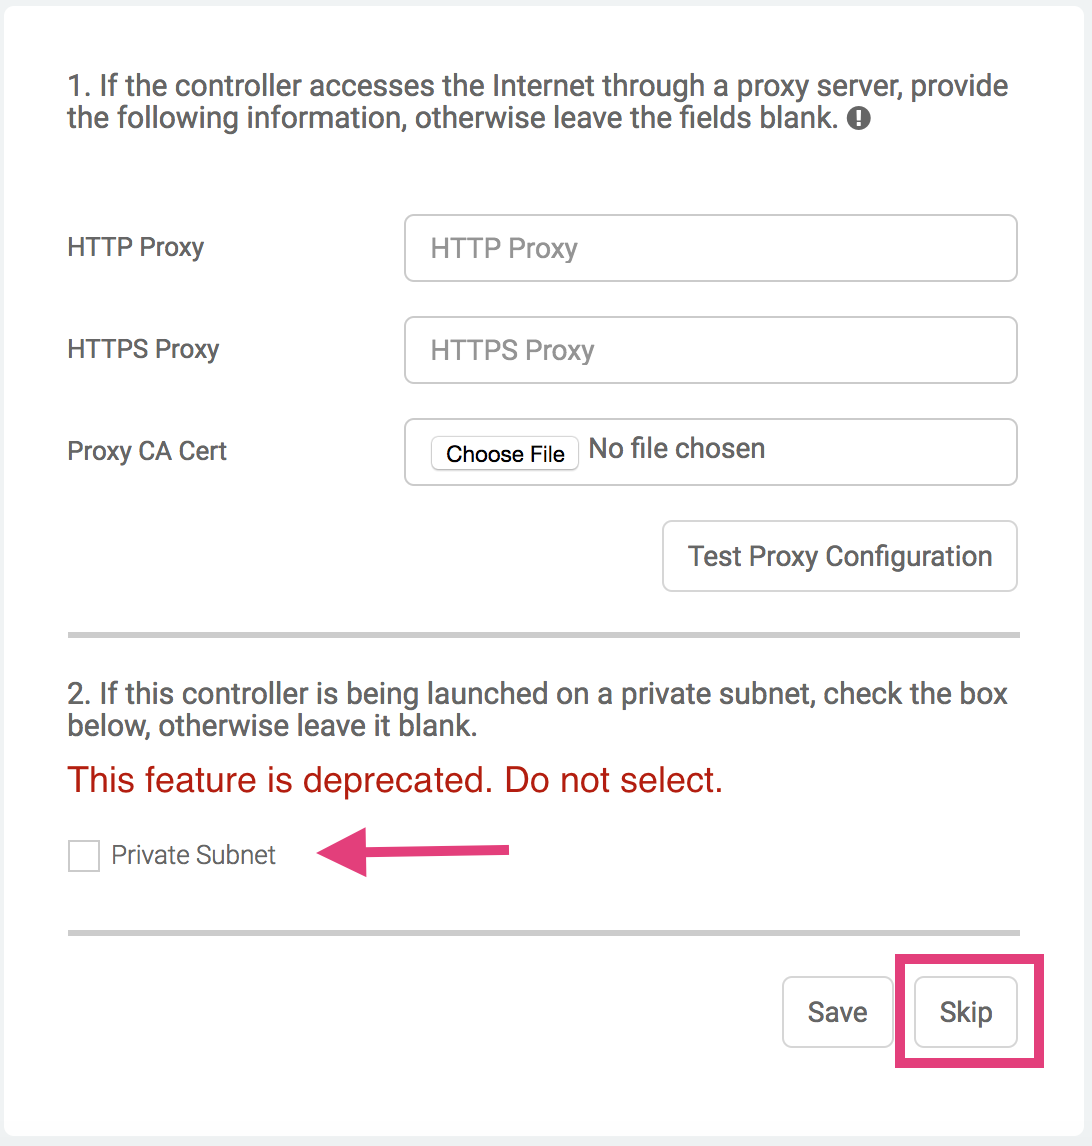
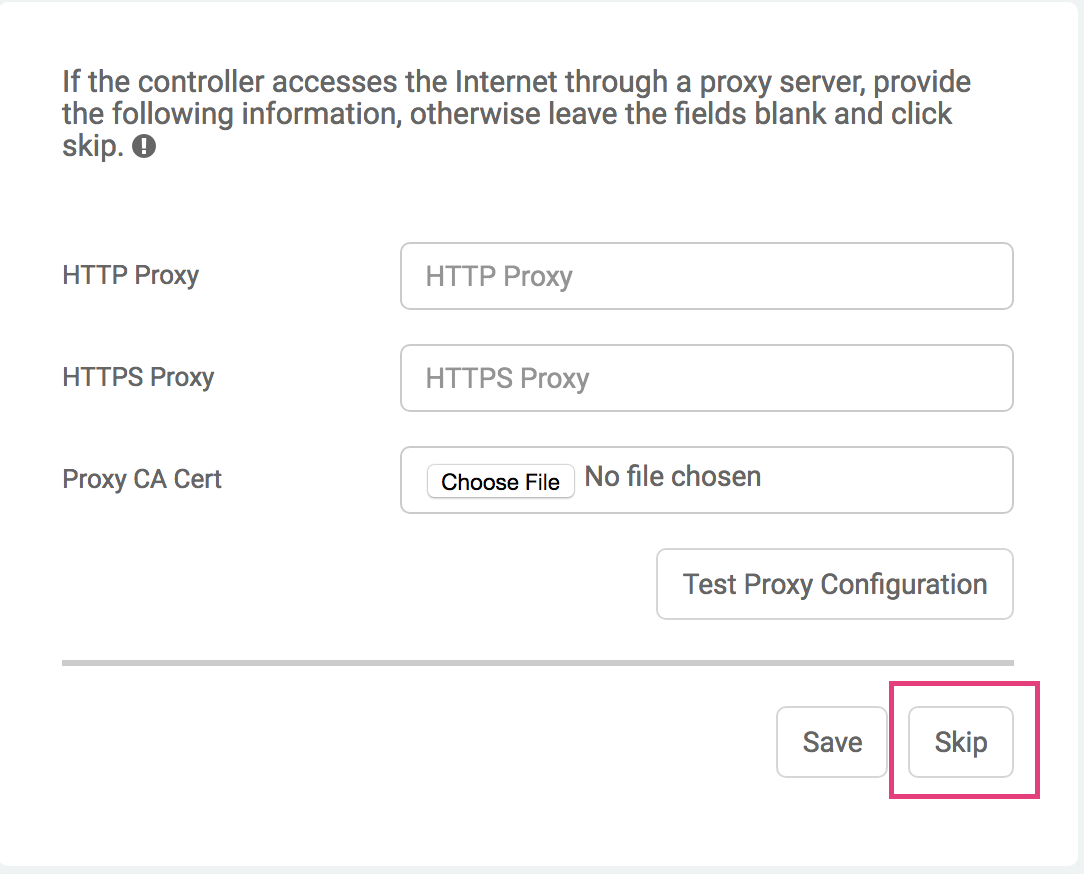
update images

diff --git a/StartUpGuides/aviatrix-china-controller-startup-guide.rst b/StartUpGuides/aviatrix-china-controller-startup-guide.rst
@@ -14,8 +14,6 @@ Click a link below to learn your use case or read an `Aviatrix Overview. <http:/
   
 `Remote User VPN <http://docs.aviatrix.com/HowTos/openvpn_features.html>`_
 
-`Next Gen Transit Network <http://docs.aviatrix.com/HowTos/transitvpc_faq.html>`_
-
 `VPC Egress Security <http://docs.aviatrix.com/HowTos/FQDN_Whitelists_Ref_Design.html>`_
 
 `Site to Cloud VPN <http://docs.aviatrix.com/HowTos/site2cloud_faq.html>`_
@@ -30,154 +28,76 @@ The following guide applies to running the Controller in your own environment in
 
 The first thing you need to do is to launch the Controller instance. 
 
-We'll walk you through 4 steps. By the end, you'll be 
+We'll walk you through 2 steps. By the end, you'll be 
 ready for your first use case. 
 
-  |4-steps|
-
-You can also `watch a video <https://youtu.be/ltL_dWjjV0w>`_ for this startup guide. 
 
 Before you start, you need to have an `AWS account <https://aws.amazon.com/>`__.   Create a new account or login to an existing IAM account.
 
 .. Important::
 
-    - We require this AWS IAM account to have permissions to create AWS IAM roles, IAM policies and launch EC2 instances. 
+    - IAM role is not supported in the current release in China. 
+    - Ningxia region is not supported in the current release in China. 
+    - We require this AWS IAM account to have permissions to create AWS access key, secret id, policies and launch EC2 instances. 
     - The Controller instance must be launched on a public subnet in a VPC. 
-    - All AMIs should be launched by CloudFormation template provided by Aviatrix, as described in the next section.
 ..
 
 
-Step 1. Subscribe to an Aviatrix AMI 
+Step 1. Locate the Controller AMI from AWS Community
 ^^^^^^^^^^^^^^^^^^^^^^^^^^^^^^^^^^^^^^^^^^^^^^^^^^^^^^^^^^
 
-1.1 Select an AMI  
-----------------------------------------------------------------
+Login to AWS China, select Beijing region, click launch EC2 instance from AWS Community AMIs, search for aviatrix, as shown below. The Aviatrix Controller AMI name is Aviatrix_china_controller_051518_BYOL. 
 
-Select the right AMI that meets your use case and subscription preference. Click an AMI link will take you to the AWS Marketplace to complete step 1.2 only. 
-(Open a new tab on the selected AMI so you can follow along with this guide.)
-
-- **Metered AMI** `Aviatrix Secure Networking Platform PAYG - Metered AMI <https://aws.amazon.com/marketplace/pp/B079T2HGWG?ref=_ptnr_docs_link_startup_metered>`_ is a pay as you go cloud consumption model for all use cases, 2 free tunnels included: 
-   - Next-Generation Transit VPC Network  
-   - VPC Egress Security  
-   - Remote User VPN (OpenVPN®)  
-   - Multicloud Peering 
-   - Encrypted Peering 
-   - Site to Cloud IPSEC VPN 
-   - FREE - EC2 FlightPath Troubleshooting Tool
-   - FREE – Two Tunnels (Free Forever)
-   
-- **Utility AMI** `Aviatrix Secure Networking Platform - Custom AMI <https://aws.amazon.com/marketplace/pp/B0155GB0MA?ref=_ptnr_web_cta_docs_custom-ami>`_ includes a 14-day free trial and is a utility model for use cases that build IPSEC and SSL VPN: 
-   - Next-Generation Transit VPC Network  
-   - Remote User VPN (OpenVPN®)  
-   - Multicloud Peering 
-   - Encrypted Peering 
-   - Site to Cloud IPSEC VPN 
-
-- **Utility User VPN AMI** We offer a range of `OpenVPN® User Access <http://docs.aviatrix.com/HowTos/uservpn.html>`_ AMIs. You can choose `25 User VPN Server <https://aws.amazon.com/marketplace/pp/B076JR3PL6?ref=_ptnr_docs_link_startup_user025>`_, `100 User VPN Server <https://aws.amazon.com/marketplace/pp/B0773DJZ9R?ref=_ptnr_docs_link_startup_user100>`_.
-
-- **BYOL AMI** `Aviatrix for Cloud Interconnect, Cloud Peering and VPN (BYOL) <https://aws.amazon.com/marketplace/pp/B0155GAZ1C?ref=_ptnr_docs_link_startup_byol>`_ offers BYOL license for all use cases. Contact support@aviatrix.com for a 14 day free trial license. 
-
-1.2 Subscribe to the selected AMI
-----------------------------------------
-
-1.2.1 Continue to Subscribe
-~~~~~~~~~~~~~~~~~~~~~~~~~~~~
-
-For example, if you select Inter-Region VPC Peering 5 Tunnel AMI, click `Continue to Subscribe`. Subscribing means that you can begin deploying the software in later steps via the CloudFormation template. 
- 
-   |imageAwsMarketplaceContinuetoSubscribe5tunnel|
-
-1.2.2 Accept Software Terms
-~~~~~~~~~~~~~~~~~~~~~~~~~~~~
-
-Click `Manual Launch` and `Accept Software Terms`. Return to this guide and continue. (Do not proceed with install of the Controller instance from the marketplace.) 
-
-    |imageAwsMarketplaceAcceptTerms|
-
-1.2.3 Product Support Connection
-~~~~~~~~~~~~~~~~~~~~~~~~~~~~~~~~~
-
-Enter your contact information to connect this subscription to Aviatrix's technical support system and obtain a free upgrade to 24x7x365 support. You can choose to sign up later, or edit/remove your details at any time. Click `Register Product Support`
+|controller-ami-china|
 
 
-.. tip::
+Step 2. Select Controller instance size
+^^^^^^^^^^^^^^^^^^^^^^^^^^^^^^^^^^^^^^^^^^^^^^^^^^^^^^^^^^
 
-  If the VPC where the Controller is deployed in has a custom DNS server (via DHCP option), make sure the Controller instance can reach this DNS server.  
+Select t2.large for the Controller instance, as shown below.
 
-..
+|instance-size|
 
-Step 2. Launch the Controller with CloudFormation
-^^^^^^^^^^^^^^^^^^^^^^^^^^^^^^^^^^^^^^^^^^^^^^^^^^^^^^^^^^^
+Step 3. Select VPC and subnet to launch
+^^^^^^^^^^^^^^^^^^^^^^^^^^^^^^^^^^^^^^^^^^^^^^^^^^^^^^^^^^
 
-Now that you have subscribed to an AMI, you are ready to install the Controller instance.
+Make sure you select a public subnet. We recommend you to enable termination protection.  
 
-Each Aviatrix AMI in AWS marketplace has a companion CloudFormation template. The template is used to launch the Controller instance. Clicking the subscribed AMI link below takes you to the CloudFormation page with the pre-loaded template.   
-
- - `Secure Networking Platform PAYG - Metered <https://console.aws.amazon.com/cloudformation/home#/stacks/new?stackName=AviatrixController&templateURL=https://s3-us-west-2.amazonaws.com/aviatrix-cloudformation-templates/aws-cloudformation-aviatrix-metering-controller.json>`_
-
- - `Secure Networking Platform - Custom <https://console.aws.amazon.com/cloudformation/home#/stacks/new?stackName=AviatrixController&templateURL=https://s3-us-west-2.amazonaws.com/aviatrix-cloudformation-templates/avx-awsmp-5tunnel.template>`_
-
- - `SSL VPN Server - 25 users <https://console.aws.amazon.com/cloudformation/home#/stacks/new?stackName=AviatrixController&templateURL=https://s3-us-west-2.amazonaws.com/aviatrix-cloudformation-templates/aws-cloudformation-aviatrix-sslvpn-25-users.json>`_
-
- - `SSL VPN Server - 100 users <https://console.aws.amazon.com/cloudformation/home#/stacks/new?stackName=AviatrixController&templateURL=https://s3-us-west-2.amazonaws.com/aviatrix-cloudformation-templates/aws-cloudformation-aviatrix-sslvpn-100-users.json>`_
-
- - `SSL VPN Server Bundle (10 users + 1 peering) <https://console.aws.amazon.com/cloudformation/home#/stacks/new?stackName=AviatrixController&templateURL=https://s3-us-west-2.amazonaws.com/aviatrix-cloudformation-templates/aws-cloudformation-sslvpnbundle.json>`_
-
- - `Cloud Interconnect BYOL <https://console.aws.amazon.com/cloudformation/home#/stacks/new?stackName=AviatrixController&templateURL=https://s3-us-west-2.amazonaws.com/aviatrix-cloudformation-templates/avx-awsmp-BYOL.template>`_
-
- 2.1. If you have not logged in, you will be prompted to login to AWS console. 
-
- 2.2. Once login, you should be already in the CloudFormation page. Change to the region where you would like to install the Aviatrix Controller. Note the CloudFormation is already loaded.
-
- 2.3. Click `Next` as shown below:
-
- |cft-next|
-
- 2.4. Fill in the following fields, 
-  - the Stack name,
-  - select a VPC in the drop down menu, 
-  - select a public subnet in that VPC (Go to AWS VPC console to make sure the public subnet is indeed in your selected VPC. Read `this link  <https://docs.aws.amazon.com/AmazonVPC/latest/UserGuide/VPC_Subnets.html>`__ if you do not know what public subnet is.)
-  - and a keypair (Read `how to create a keypair <https://docs.aws.amazon.com/AWSEC2/latest/UserGuide/ec2-key-pairs.html>`_ to create a keypair in AWS EC2 console if this field is blank.)
-
-   |imageCFSpecifyDetails|
-
-.. note::
-
-   The Aviatrix Controller must be launched on a public subnet. If this is the first time you launch Aviatrix Controller, select the default setting **New** for IAM Role Creation. If Aviatrix IAM role has been created before, select **aviatrix-role-ec2** for IAM Role Creation.  The Aviatrix Controller instance is termination protected. 
-..
-
- 2.5. Leave the `Controller Size` at `t2.large` and keep the `IAM role creation` at "New" unless you have already created the Aviatrix IAM roles.
-
- 2.6. Click `Next`
-
- 2.7. Optionally, add any key/value tags as required
-
- 2.8. Optionally, select an IAM Role if your currently logged in user does not have permission to create instances.
-
- 2.9. We recommend you to enable stack termination protection during stack creation time to prevent accidental deletion, as shown below, then click `Next`
-
-  |imageCFEnableTermProtection|
-     
-.. Warning::
-
-  The Controller instance has Termination Protection enabled. If you need to delete the stack, make sure you first disable the Controller instance Termination Protection at the AWS EC2 console.
-
-..
-
- 2.10. Click the checkbox next to "I acknowledge that AWS CloudFormation ..." and then click `Create`.
-
-   |imageCFCreateFinal|
-
- 2.11. Once the stack creation completes (Status change to `CREATE_COMPLETE`), click on the `Outputs` tab.  The values displayed will be needed when configuring primary access account in Aviatrix.
-   
-   |imageCFComplete|
+|select-subnet|
 
 
-Step 3. Connect to the Controller 
+Step 4. Add storage
+^^^^^^^^^^^^^^^^^^^^^^^^^^^^^^^^^^^^^^^^^^^^^^^^^^^^^^^^^^
+
+Make sure you specify 20GB as the storage size, as shown below. 
+
+|add-storage|
+
+Step 5. Setup security group
+^^^^^^^^^^^^^^^^^^^^^^^^^^^^^^^^^^^^^^^^^^^^^^^^^^^^^^^^^^
+
+Open security group 443 to all, as shown below. (You can reduce the scope later)
+
+|security-group|
+
+Step 6. Launch the instance
+^^^^^^^^^^^^^^^^^^^^^^^^^^^^^^^
+
+Review the instance, create a new or use an existing key pair to launch the instance. 
+
+Step 7. Add EIP
+^^^^^^^^^^^^^^^^
+
+Once the Controller instance is launched, you need to associate it with an EIP. Make sure this EIP has been granted legitimacy by the government. 
+
+Associate the EIP with the Controller instance. 
+
+
+Step 8. Connect to the Controller 
 ^^^^^^^^^^^^^^^^^^^^^^^^^^^^^^^^^^
 Now that Aviatrix Controller instance has been launched, let's login and go through a few init steps.
 
- 3.1. Open a browser window to https://AviatrixControllerEIP, where AviatrixControllerEIP can be found in the Stack Outputs. You can also find the Controller instance EIP by going to AWS EC2 console, click the Controller instance and locate its public IP address. 
+Open a browser window to https://AviatrixControllerEIP 
 
 .. tip::
    You may receive a warning that the connection may not be secure.  This is because the certificate is self-signed by the Controller.  It is safe to continue to the page.
@@ -186,13 +106,15 @@ Now that Aviatrix Controller instance has been launched, let's login and go thro
 
    |imageControllerBrowserWarning|
 
- 3.2. Login with the username `admin`.
+Step 9. Initial Login
+^^^^^^^^^^^^^^^^^^^^^^^^^^^^^^^^^^
 
-   For the password field, use the `AviatrixControllerPrivateIP`.  The `AviatrixControllerPrivateIP` can be found in the Outputs section of the CloudFormation stack. You can also find the Controller instance's private IP address by going to AWS EC2 console, click the Controller instance and locate its private IP address. 
+ 9.1 Login with the username `admin`.
+
+ 9.2 For the password field, you can find the Controller instance's private IP address by going to AWS EC2 console, click the Controller instance and locate its private IP address. 
    
-   |imageCFOutputsWithPassword|
 
- 3.3. Enter your email address.  This email will be used for alerts as well as password recovery (if needed).
+ 9.3 Enter your email address.  This email will be used for alerts as well as password recovery (if needed).
 
    |imageControllerEnterEmail|
 
@@ -206,7 +128,7 @@ Now that Aviatrix Controller instance has been launched, let's login and go thro
 
  3.6. Finally, the Controller will upgrade itself to the latest software version after you click on `Run`. Wait for a few minutes for the process to finish. 
 
-   |imageControllerUpgrade|
+   |imageControllerUpgrade-china|
 
 .. tip::
    The Controller upgrade takes about 3-5 minutes.  Once complete, the login prompt will appear.  Use the user `admin` and your new password to login.
@@ -224,12 +146,12 @@ Once logged back in to the Controller, you should be on the `Onboarding` page or
    |imageOnboardAws|
 
 
-4.2  (Only apply to BYOL AMI) Enter Your Customer ID 
+4.2  Enter Your Customer ID 
 -----------------------------------------------------
 
 .. Note::
 
-   This step only applies if you select BYOL AMI. Contact support@aviatrix.com to get a trial license if you do not have one.
+   Contact support@aviatrix.com to get a trial license if you do not have one.
 ..
    
 Enter the `Customer ID` in the field and click `Save`.
@@ -290,51 +212,44 @@ Enjoy!
 
 .. disqus::
 
-.. |4-steps| image:: ZeroToConnectivityInAWS_media/4-steps.png
+.. |controller-ami-china| image:: china-controller_media/controller-ami-china.png
+   :scale: 100%
+
+.. |instance-size| image:: china-controller_media/instance-size.png
    :scale: 40%
 
-.. |imageAwsMarketplacePage1| image:: ZeroToConnectivityInAWS_media/aws_marketplace_page1.png
-.. |imageAwsMarketplaceContinuetoSubscribe| image:: ZeroToConnectivityInAWS_media/aws_marketplace_step1.png
-.. |imageAwsMarketplaceContinuetoSubscribe5tunnel| image:: ZeroToConnectivityInAWS_media/aws_marketplace_step1_5tunnel.png
-.. |imageAwsMarketplaceAccept| image:: ZeroToConnectivityInAWS_media/aws_marketplace_step2.png
-.. |imageAwsMarketplaceAcceptTerms| image:: ZeroToConnectivityInAWS_media/aws_marketplace_select_region_and_accept.png
-.. |imageCFCreate| image:: ZeroToConnectivityInAWS_media/cf_create.png
-.. |imageCFOptions| image:: ZeroToConnectivityInAWS_media/cf_options.png
-.. |imageCFCreateFinal| image:: ZeroToConnectivityInAWS_media/cf_create_final.png
-.. |imageCFComplete| image:: ZeroToConnectivityInAWS_media/cf_complete_outputs.png
-.. |imageCFOutputsWithPassword| image:: ZeroToConnectivityInAWS_media/cf_complete_outputs_private_ip_highlight.png
-.. |imageControllerBrowserWarning| image:: ZeroToConnectivityInAWS_media/controller_browser_warning.png
+.. |select-subnet| image:: china-controller_media/select-subnet.png
+   :scale: 40%
+
+.. |security-group| image:: china-controller_media/security-group.png
+   :scale: 40%
+
+.. |add-storage| image:: china-controller_media/add-storage.png
+   :scale: 40%
+
+.. |imageControllerBrowserWarning| image:: ../ZeroToConnectivityInAWS_media/controller_browser_warning.png
    :scale: 50%
 
-.. |imageControllerEnterEmail| image:: ZeroToConnectivityInAWS_media/controller_enter_email.png
+.. |imageAviatrixOnboardNav| image:: ../ZeroToConnectivityInAWS_media/aviatrix_onboard_nav.png
    :scale: 50%
 
-.. |imageControllerChangePassword| image:: ZeroToConnectivityInAWS_media/controller_change_password.png
+.. |imageOnboardAws| image:: ../ZeroToConnectivityInAWS_media/onboard_aws.png
    :scale: 50%
 
-.. |imageproxy-config| image:: ZeroToConnectivityInAWS_media/proxy_config.png
+.. |imageEnterCustomerID| image:: ../ZeroToConnectivityInAWS_media/customerid_enter.png
    :scale: 25%
 
-.. |imageControllerUpgrade| image:: ZeroToConnectivityInAWS_media/controller_upgrade.png
+
+.. |imageCreateAccount| image:: ../ZeroToConnectivityInAWS_media/create_account.png
+
+.. |imageControllerEnterEmail| image:: ../ZeroToConnectivityInAWS_media/controller_enter_email.png
    :scale: 50%
 
-.. |imageCFSelectTemplate| image:: ZeroToConnectivityInAWS_media/cf_select_template.png
-.. |imageCFSelectTemplate-S3| image:: ZeroToConnectivityInAWS_media/imageCFSelectTemplate-S3.png
-.. |imageCFSpecifyDetails| image:: ZeroToConnectivityInAWS_media/cf_specify_details_new.png
-
-.. |imageCFEnableTermProtection| image:: ZeroToConnectivityInAWS_media/cf_termination_protection.png
+.. |imageControllerChangePassword| image:: ../ZeroToConnectivityInAWS_media/controller_change_password.png
    :scale: 50%
 
-.. |imageAviatrixOnboardNav| image:: ZeroToConnectivityInAWS_media/aviatrix_onboard_nav.png
-   :scale: 50%
-
-.. |imageOnboardAws| image:: ZeroToConnectivityInAWS_media/onboard_aws.png
-   :scale: 50%
-
-.. |imageEnterCustomerID| image:: ZeroToConnectivityInAWS_media/customerid_enter.png
+.. |imageproxy-config| image:: ../ZeroToConnectivityInAWS_media/proxy_config.png
    :scale: 25%
 
-.. |cft-next| image:: ZeroToConnectivityInAWS_media/cft-next.png
-   :scale: 25%
-
-.. |imageCreateAccount| image:: ZeroToConnectivityInAWS_media/create_account.png
+.. |imageControllerUpgrade| image:: china-controller_media/controller_upgrade-china.png
+   :scale: 50%
